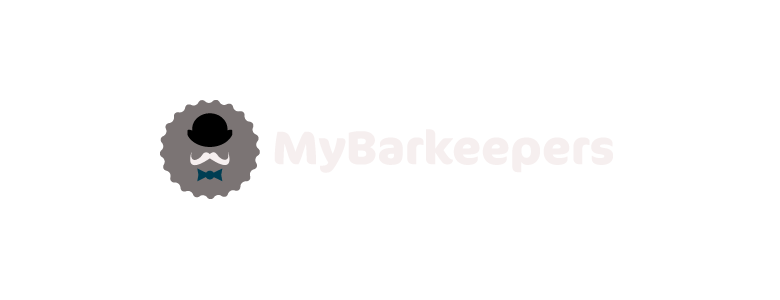
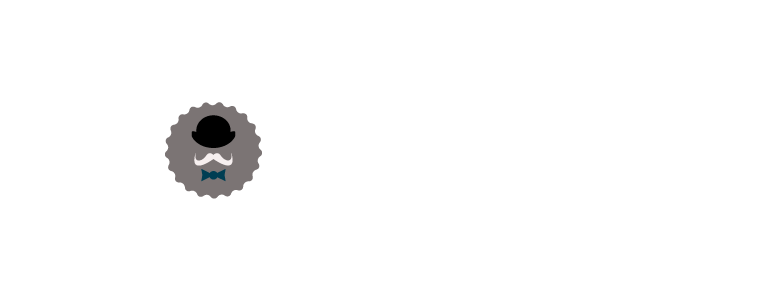
1.155

Changed region(s): [[0.1846, 0.33, 0.3385, 0.63], [0.2462, 0.63, 0.3077, 0.66]]

diff --git a/public/404.html b/public/404.html
@@ -3,8 +3,8 @@
   <head>
     <meta charset="utf-8">
     <meta http-equiv="X-UA-Compatible" content="IE=edge,chrome=1">
-    <title>MyBarkeepers</title>
-    <meta name="description" content="The MyBarkeepers app for iPhone is a social network that lets you keep in touch with your favorite bartenders.">
+    <title>HeyBarkeep!</title>
+    <meta name="description" content="The HeyBarkeep app for iPhone is a social network that lets you keep in touch with your favorite bartenders.">
     <link href='http://fonts.googleapis.com/css?family=PT+Sans:400,700' rel='stylesheet' type='text/css'>
     <link href="/assets/application.css" media="all" rel="stylesheet" type="text/css" />
     <script src="/assets/application.js" type="text/javascript"></script>
@@ -15,7 +15,7 @@
       <header class="navbar navbar-fixed-top">
         <nav class="navbar-inner">
           <div class="container">
-            <a href="/" alt="MyBarkeepers" id="logo"></a>
+            <a href="/" alt="HeyBarkeep!" id="logo"></a>
           </div>
         </nav>
       </header>
@@ -35,10 +35,10 @@
        <div class="container">
           <footer class="footer">
             <div id="footerright">
-              &copy; <script>document.write(new Date().getFullYear())</script> MyBarkeepers. All Rights Reserved.  
+              &copy; <script>document.write(new Date().getFullYear())</script> HeyBarkeep. All Rights Reserved.  
             </div>
             <div id="footerleft">
-              <a href="/contact">Contact the MyBarkeepers team</a> anytime with questions or comments.
+              <a href="/contact">Contact the HeyBarkeep team</a> anytime with questions or comments.
             </div>
         </footer>
       </div> 

diff --git a/public/422.html b/public/422.html
@@ -3,8 +3,8 @@
   <head>
     <meta charset="utf-8">
     <meta http-equiv="X-UA-Compatible" content="IE=edge,chrome=1">
-    <title>MyBarkeepers</title>
-    <meta name="description" content="The MyBarkeepers app for iPhone is a social network that lets you keep in touch with your favorite bartenders.">
+    <title>HeyBarkeep!</title>
+    <meta name="description" content="The HeyBarkeep app for iPhone is a social network that lets you keep in touch with your favorite bartenders.">
     <link href='http://fonts.googleapis.com/css?family=PT+Sans:400,700' rel='stylesheet' type='text/css'>
     <link href="/assets/application.css" media="all" rel="stylesheet" type="text/css" />
     <script src="/assets/application.js" type="text/javascript"></script>
@@ -15,7 +15,7 @@
       <header class="navbar navbar-fixed-top">
         <nav class="navbar-inner">
           <div class="container">
-            <a href="/" alt="MyBarkeepers" id="logo"></a>
+            <a href="/" alt="HeyBarkeep!" id="logo"></a>
           </div>
         </nav>
       </header>
@@ -35,10 +35,10 @@
        <div class="container">
           <footer class="footer">
             <div id="footerright">
-              &copy; <script>document.write(new Date().getFullYear())</script> MyBarkeepers. All Rights Reserved.  
+              &copy; <script>document.write(new Date().getFullYear())</script> HeyBarkeep. All Rights Reserved.  
             </div>
             <div id="footerleft">
-              <a href="/contact">Contact the MyBarkeepers team</a> anytime with questions or comments.
+              <a href="/contact">Contact the HeyBarkeep team</a> anytime with questions or comments.
             </div>
         </footer>
       </div> 

diff --git a/public/500.html b/public/500.html
@@ -3,8 +3,8 @@
   <head>
     <meta charset="utf-8">
     <meta http-equiv="X-UA-Compatible" content="IE=edge,chrome=1">
-    <title>MyBarkeepers</title>
-    <meta name="description" content="The MyBarkeepers app for iPhone is a social network that lets you keep in touch with your favorite bartenders.">
+    <title>HeyBarkeep!</title>
+    <meta name="description" content="The HeyBarkeep app for iPhone is a social network that lets you keep in touch with your favorite bartenders.">
     <link href='http://fonts.googleapis.com/css?family=PT+Sans:400,700' rel='stylesheet' type='text/css'>
     <link href="/assets/application.css" media="all" rel="stylesheet" type="text/css" />
     <script src="/assets/application.js" type="text/javascript"></script>
@@ -15,7 +15,7 @@
       <header class="navbar navbar-fixed-top">
         <nav class="navbar-inner">
           <div class="container">
-            <a href="/" alt="MyBarkeepers" id="logo"></a>
+            <a href="/" alt="HeyBarkeep!" id="logo"></a>
           </div>
         </nav>
       </header>
@@ -35,10 +35,10 @@
        <div class="container">
           <footer class="footer">
             <div id="footerright">
-              &copy; <script>document.write(new Date().getFullYear())</script> MyBarkeepers. All Rights Reserved.  
+              &copy; <script>document.write(new Date().getFullYear())</script> HeyBarkeep. All Rights Reserved.  
             </div>
             <div id="footerleft">
-              <a href="/contact">Contact the MyBarkeepers team</a> anytime with questions or comments.
+              <a href="/contact">Contact the HeyBarkeep team</a> anytime with questions or comments.
             </div>
         </footer>
       </div> 

diff --git a/app/controllers/users_controller.rb b/app/controllers/users_controller.rb
@@ -479,10 +479,10 @@ class UsersController < ApplicationController
     @message[:body] = "
     <p>Hello #{@email}!</p>
     <br/>
-    <p>#{@name} has invited you to try out MyBarkeepers, a new app for iPhone that lets you stay in touch with your favorite bartenders.</p>
+    <p>#{@name} has invited you to try out HeyBarkeep, a new app for iPhone that lets you stay in touch with your favorite bartenders.</p>
     <p>You and your friends can see who's working where and discover new drinking destinations. Bartenders can build their following and promote their latest concoction.</p>
     <br/>
-    <p>Learn more and download the app for iPhone at <a href='https://www.mybarkeepers.com'>mybarkeepers.com</a>.</p>"
+    <p>Learn more and download the app for iPhone at <a href='https://www.heybarkeep.co'>heybarkeep.co</a>.</p>"
 
     # send email
     @sendmessage = Message.new(@message)

diff --git a/config/initializers/devise.rb b/config/initializers/devise.rb
@@ -4,7 +4,7 @@ Devise.setup do |config|
   # ==> Mailer Configuration
   # Configure the e-mail address which will be shown in Devise::Mailer,
   # note that it will be overwritten if you use your own mailer class with default "from" parameter.
-  config.mailer_sender = '"MyBarkeepers" <mybarkeepers@lifestylesupply.co>'
+  config.mailer_sender = '"HeyBarkeep" <heybarkeep@lifestylesupply.co>'
 
   # Configure the class responsible to send e-mails.
   # config.mailer = "Devise::Mailer"

diff --git a/config/environments/production.rb b/config/environments/production.rb
@@ -64,7 +64,7 @@ Rails3BootstrapDeviseCancan::Application.configure do
   # Send deprecation notices to registered listeners
   config.active_support.deprecation = :notify
 
-  config.action_mailer.default_url_options = { :host => 'mybarkeepers.com' }
+  config.action_mailer.default_url_options = { :host => 'heybarkeep.co' }
   # ActionMailer Config
   # Setup for production - deliveries, no errors raised
   config.action_mailer.delivery_method = :smtp

diff --git a/app/mailers/notifications_mailer.rb b/app/mailers/notifications_mailer.rb
@@ -1,6 +1,6 @@
 class NotificationsMailer < ActionMailer::Base
 
-  default :from => "MyBarkeepers <mybarkeepers@lifestylesupply.co>"
+  default :from => "HeyBarkeep <heybarkeep@lifestylesupply.co"
   default :to => "jlnovosad@gmail.com"
 
   def new_message(message)

diff --git a/app/mailers/invitations_mailer.rb b/app/mailers/invitations_mailer.rb
@@ -1,6 +1,6 @@
 class InvitationsMailer < ActionMailer::Base
 
-  default :from => "MyBarkeepers <mybarkeepers@lifestylesupply.co>"
+  default :from => "HeyBarkeep <heybarkeep@lifestylesupply.co>"
 
 
   def new_message(message)
